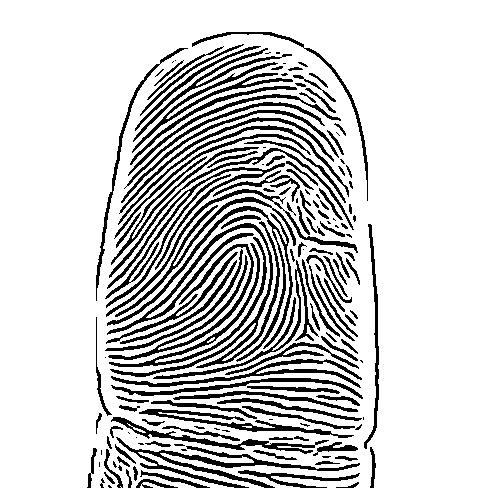
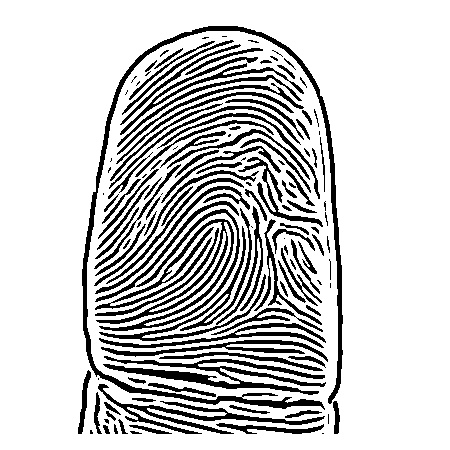
pred with database added

Changed region(s): [[0.1556, 0.0311, 0.7778, 0.9956]]

diff --git a/app/static/js/main.js b/app/static/js/main.js
@@ -3,13 +3,13 @@ $(function() {
     const crop_format = {
       enableExif: true,
       viewport: {
-        width: 160,
-        height: 160,
+        width: 300,
+        height: 300,
         type: 'circle' //circle
       },
       boundary: {
-        width: 200,
-        height: 200
+        width: 300,
+        height: 300
       }
     };
 
@@ -28,7 +28,7 @@ $(function() {
 
     $('#fp1_sample').click(() => {
       $image_crop1.croppie('bind', {
-        url: '/static/img/sample_fingerprint.png',
+        url: '/static/img/sample_fingerprint.jpg',
         zoom: 0
       }).then(function() {
         console.log('sample finger 1 added');
@@ -38,7 +38,7 @@ $(function() {
 
     $('#fp2_sample').click(() => {
       $image_crop2.croppie('bind', {
-        url: '/static/img/sample_fingerprint.png',
+        url: '/static/img/sample_fingerprint.jpg',
         zoom: 0
       }).then(function() {
         console.log('sample finger 2 added');
@@ -135,7 +135,7 @@ $(function() {
 
           $.ajax({
             type: "POST",
-            url: "/",
+            url: "/two_image_prediction",
             data: formData,
             processData: false,
             contentType: false,
@@ -187,7 +187,6 @@ $(function() {
       formData.append('fp_label', label);
 
       showProgresss();
-
       $.ajax({
         type: "POST",
         url: "/upload_to_db",
@@ -196,7 +195,8 @@ $(function() {
         contentType: false,
         success: function(result) {
           // console.log(result);
-          window.location = '/database'
+          // window.location = '/database'
+          location.reload(true);
         },
         error: function(err) {
           alert(err);
@@ -231,6 +231,11 @@ $(function() {
         contentType: false,
         success: function(result) {
           console.log(result);
+          let {all_preds, best_pred} = result;
+          all_preds.forEach( (pred) => {
+            $(`#${pred['html_id']}_acc`).text('(' + pred['accuracy'].toFixed(3) + ')').removeClass('text-green-600').addClass('text-red-600');
+          });
+          $(`#${best_pred['html_id']}_acc`).removeClass('text-red-600').addClass('text-green-600');
           hideProgresss();
         },
         error: function(err) {

diff --git a/app/templates/database.html b/app/templates/database.html
@@ -5,6 +5,9 @@
   <meta charset="UTF-8">
   <meta name="viewport" content="width=device-width, initial-scale=1.0">
   <meta http-equiv="X-UA-Compatible" content="ie=edge">
+  <meta http-equiv="Cache-Control" content="no-cache, no-store, must-revalidate" />
+  <meta http-equiv="Pragma" content="no-cache" />
+  <meta http-equiv="Expires" content="0" />
   <title>Fingerprint DeepLearning</title>
 
   <link rel="icon" type="image/png" href="{{ url_for('static', filename='logo.png')}}" />
@@ -117,7 +120,10 @@
               <img id="db_{{ fp['label'] }}" src="{{ fp['url'] }}" class="block w-25 h-25 rounded-full shadow-md">
             </div>
             <label class="font-mono block font-bold text-gray-700 text-sm mb-2 text-center" for="photo">
-              {{ fp['label'] }} <span class="text-red-600"> </span>
+              {{ fp['label'] }}
+              {% if not detection_page %}
+              <span id="db_{{ fp['label'] }}_acc" class="text-red-600 block"></span>
+              {% endif %}
             </label>
           </div>
           {% endfor %}

diff --git a/app/templates/analyze.html b/app/templates/analyze.html
@@ -5,6 +5,9 @@
   <meta charset="UTF-8">
   <meta name="viewport" content="width=device-width, initial-scale=1.0">
   <meta http-equiv="X-UA-Compatible" content="ie=edge">
+  <meta http-equiv="Cache-Control" content="no-cache, no-store, must-revalidate" />
+  <meta http-equiv="Pragma" content="no-cache" />
+  <meta http-equiv="Expires" content="0" />
   <title>Fingerprint DeepLearning</title>
 
   <link rel="icon" type="image/png" href="{{ url_for('static', filename='logo.png')}}" />

diff --git a/app/main.py b/app/main.py
@@ -22,10 +22,9 @@ def analyze():
     return render_template('analyze.html')
 
 # when the post method detect, then redirect to success function
-@app.route('/', methods=['POST', 'GET'])
+@app.route('/two_image_prediction', methods=['POST', 'GET'])
 def get_data():
     if request.method == 'POST':
-        print(request.files)
         fp1 = request.files['fp1'].read()
         fp2 = request.files['fp2'].read()
 
@@ -71,8 +70,8 @@ def store_fingerprint():
         fpimg = np.frombuffer(fp, np.uint8)
         fpimg = cv2.imdecode(fpimg, cv2.IMREAD_GRAYSCALE)
 
-        out1 = enhancer.basicEnhancing(fpimg)
-        enhanced_image = enhancer.advancedEnhancing(out1)
+        enhanced_image = enhancer.basicEnhancing(fpimg)
+        enhanced_image = enhancer.advancedEnhancing(enhanced_image)
         utils.saveImageToDatabase(label, enhanced_image)
 
         response = {'status': 'Saved successfully!'}
@@ -94,7 +93,7 @@ def predictWithDb():
         pred_result = None
         try:
             pred_result = predictor.getPredictionDb(main_img, all_db_imgs)
-            pred_result['accuracy'] = float("%.5f" %(pred_result['accuracy']))
+            pred_result['best_pred']['accuracy'] = float("%.5f" %(pred_result['best_pred']['accuracy']))
         except Exception as e:
             print(e)
             return Response(response={'status': 'Predction Problem! Check image size, maybe.'}, status=503, mimetype="application/json")

diff --git a/app/predictor.py b/app/predictor.py
@@ -18,6 +18,7 @@ def getPredictionDb(main_img, all_db_imgs):
 	best_pred = 0.00
 	best_html_id = "db_null"
 	matched_person = "null"
+	all_preds = []
 
 	main_img = np.array(main_img, dtype='uint8')
 
@@ -33,12 +34,15 @@ def getPredictionDb(main_img, all_db_imgs):
 		if db_img.shape != (160, 160):
 			db_img = cv2.resize(db_img, (160, 160))
 
-		pred = two_image_prediction(main_img, db_img)
+		pred = float("%.5f" %(two_image_prediction(main_img, db_img)))
+		all_preds.append({"html_id": f"db_{file['label']}", "accuracy": pred * 100})
+
 		# print(pred)
 		if pred > best_pred:
 			best_pred = pred
 			matched_person = file['label']
 			best_html_id = f"db_{matched_person}"
 
-	result = {"html_id": best_html_id, "accuracy": best_pred * 100, "matched_person": matched_person}
-	return result
+	best_pred = {"html_id": best_html_id, "accuracy": best_pred * 100, "matched_person": matched_person}
+	full_result = {"all_preds": all_preds, "best_pred": best_pred}
+	return full_result

diff --git a/app/FingerprintImageEnhancer.py b/app/FingerprintImageEnhancer.py
@@ -7,13 +7,13 @@ import scipy
 
 class FingerprintImageEnhancer(object):
     def __init__(self):
-        self.ridge_segment_blksze = 16
+        self.ridge_segment_blksze = 32
         self.ridge_segment_thresh = 0.1
         self.gradient_sigma = 1
         self.block_sigma = 7
         self.orient_smooth_sigma = 7
         self.ridge_freq_blksze = 38
-        self.ridge_freq_windsze = 5
+        self.ridge_freq_windsze = 25 #width change (thick -> 15) (default -> 5)
         self.min_wave_length = 5
         self.max_wave_length = 15
         self.kx = 0.65
